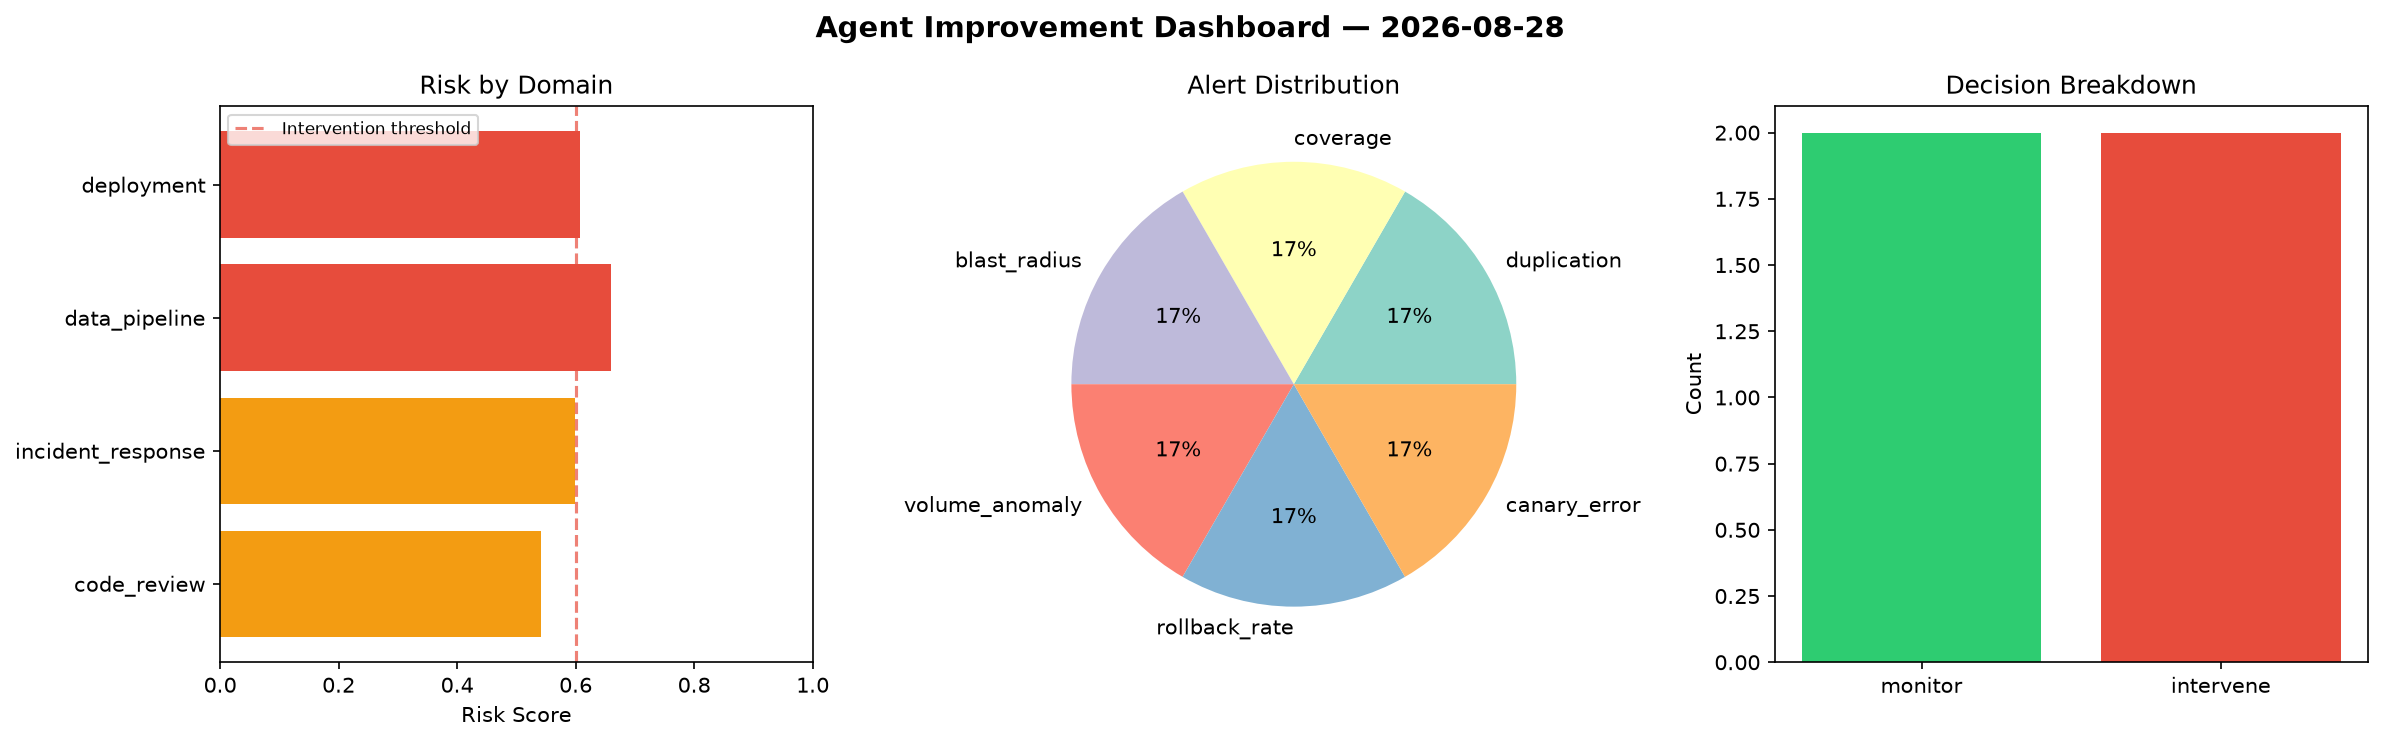
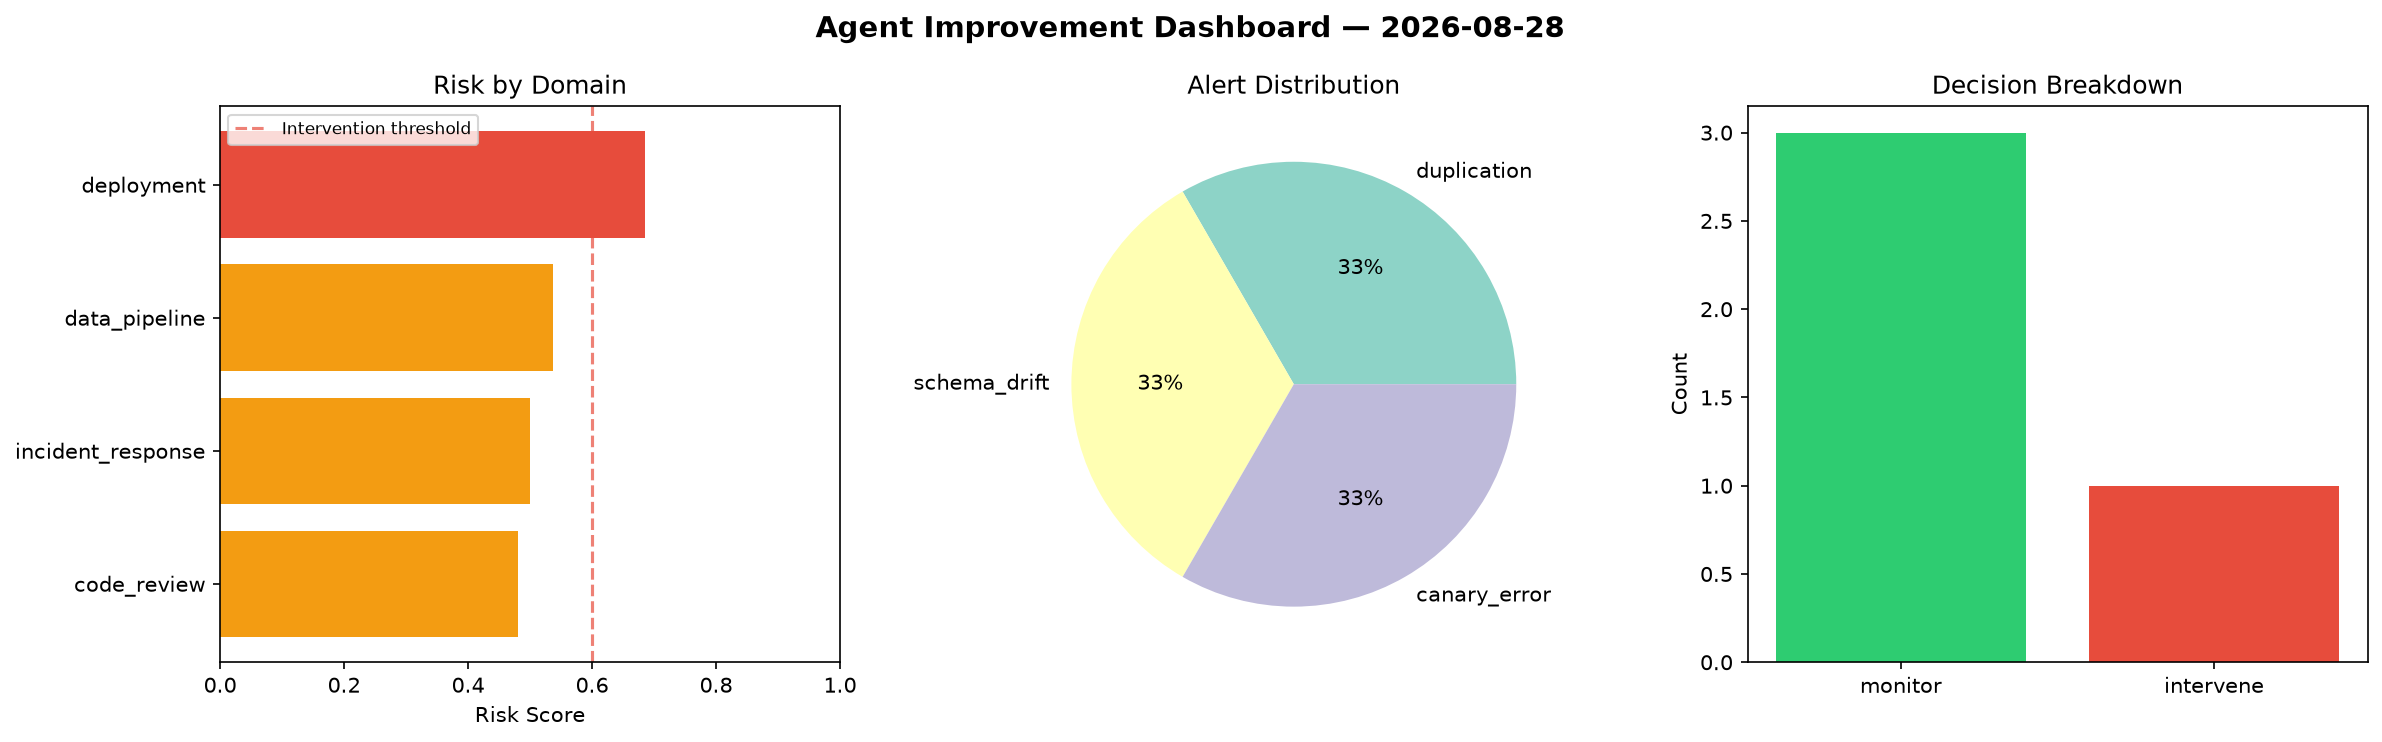
agent-improvement: daily cycle 2026-08-28T14:19

diff --git a/logs/2026-08-28.md b/logs/2026-08-28.md
@@ -1,6 +1,6 @@
 # Agent Improvement Report — 2026-08-28
 
-**Cycle ID:** `1c9e1c63` | **Avg Risk:** 0.6024 | **Interventions:** 2/4
+**Cycle ID:** `ec0bde1c` | **Avg Risk:** 0.5507 | **Interventions:** 1/4
 
 ![Dashboard](2026-08-28_dashboard.png)
 
@@ -10,18 +10,18 @@
 
 | Domain | Risk Score | Decision | Alerts |
 |--------|-----------|----------|--------|
-| code_review | 0.5422 | monitor | duplication, coverage |
-| incident_response | 0.5995 | monitor | blast_radius |
-| data_pipeline | 0.6603 | intervene | volume_anomaly |
-| deployment | 0.6074 | intervene | rollback_rate, canary_error |
+| code_review | 0.4807 | monitor | duplication |
+| incident_response | 0.5003 | monitor | none |
+| data_pipeline | 0.5369 | monitor | schema_drift |
+| deployment | 0.685 | intervene | canary_error |
 
 ## Delta vs Yesterday
 
 | Domain | Today | Yesterday | Change |
 |--------|-------|-----------|--------|
-| code_review | 0.5422 | 0.3578 | 📈 51.5% |
-| incident_response | 0.5995 | 0.4722 | 📈 27.0% |
-| data_pipeline | 0.6603 | 0.4479 | 📈 47.4% |
-| deployment | 0.6074 | 0.4195 | 📈 44.8% |
+| code_review | 0.4807 | 0.3578 | 📈 34.3% |
+| incident_response | 0.5003 | 0.4722 | 📈 6.0% |
+| data_pipeline | 0.5369 | 0.4479 | 📈 19.9% |
+| deployment | 0.685 | 0.4195 | 📈 63.3% |
 
 **Refinement:** `{'adjustment': 'tighten_thresholds', 'trend': 'degrading', 'window': 4}`
